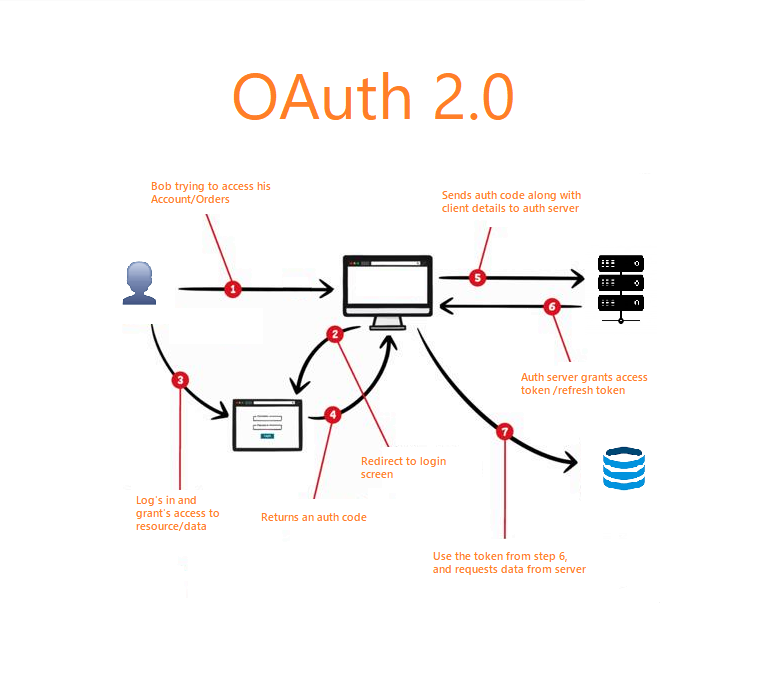
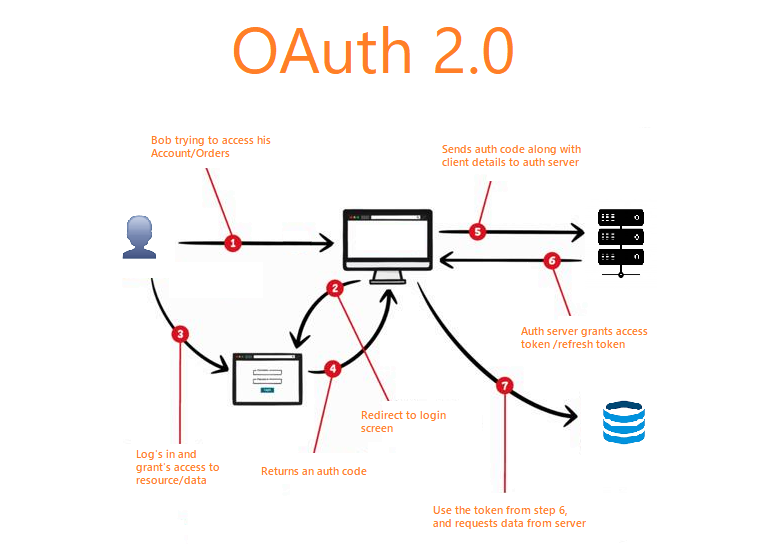
feat: 오픈미션_3 작성

diff --git a/_posts/2025-11-24-우테코-프리코스-오픈미션-3.md b/_posts/2025-11-24-우테코-프리코스-오픈미션-3.md
@@ -1,0 +1,185 @@
+---
+title: "우아한테크코스 프리코스 오픈미션 - 기능개선"
+date: 2025-11-24 02:00:00 +09:00
+categories: [WTC, Precourse]
+tags: [boot camp, back end, open mission]
+image:
+  path: /assets/img/WTC/open/open_mission_3/로컬 스토리지.png
+---
+
+> 로그인 로직을 **로컬 스토리지**에 책임을 몰아넣은 결과.. 많은 일이 있었다.
+
+## #⃣ **서론**
+**2025.11.17 챗봇 배포 후** 일주일간은 **로그 데이터를 분석**하며 사용자의 **질문 패턴**과 **응답 품질**을 개선하는 데 집중했다. 그리고 이 모니터링 과정에서 예상치 못한 **보안 위협**을 목격하게 되었다. 
+
+**바로 우리 학교 IT계열 학생들의 남다른 호기심이었다.**
+<figure align="center">
+  <img src="/assets/img/WTC/open/open_mission_3/인젝션 시도.png" alt="프롬프트 인젝션 공격 로그">
+  <figcaption>▲ 실제 로그에 찍힌 프롬프트 인젝션 시도 화면</figcaption>
+</figure>
+
+챗봇의 허점을 뚫으려는 **프롬프트 인젝션** 공격뿐만 아니라, 오픈된 깃허브 소스 코드를 역추적하여 **비공개 관리자 페이지 URL**을 알아내고 **무단 접속을 시도**하기까지 했다. 실제 서비스였다면 아찔했을 순간들이었다.
+
+이후 학교에서 실제로 어떤 시도를 했는지 동기의 입으로 듣는 순간, 나는 생각 이상으로 **보안 강화는 필수라는 생각을 하게 되었다.**
+
+그래서 이번 블로그 포스팅은 **보안 로직**과 **개선할 점**에 대해 적어 나갈예정이다.
+
+## #⃣ **로그인 로직 & 보안강화 계획**
+![구글로그인](/assets/img/WTC/open/open_mission_3/OAuth 2.0.png)
+
+**관리자 페이지**는 Google OAuth 2.0을 통해 사용자를 1차 인증하고, 백엔드에서 **허용된 이메일(Whitelist)**인지 검증한 후 자체 **JWT(Access Token)**를 발급하여 세션을 유지하는 방식으로 로직을 짰다.
+
+즉. 전체적인 인증 흐름은 크게 **프론트엔드 요청** → **백엔드 검증 및 토큰 발급** → **API 요청 인터셉터**의 **3단계**로 나뉜다.
+
+### 1. **프론트엔드: Google 로그인 트리거**
+로그인 페이지에서는 `@react-oauth/google` 라이브러리를 사용하여 Google 로그인을 구현했다. 사용자가 구글 로그인을 완료하면 `id_token`을 받아 백엔드로 전송한다.
+
+- **토큰 전송**: 구글 인증 성공 시 반환되는 `credentialResponse.credential`(Google ID Token)을 `/auth/google/login` 엔드포인트로 전송한다.
+
+- **토큰 저장**: 백엔드로부터 응답받은 자체 `access_token`을 `localStorage`에 저장하고, `apiClient`의 기본 헤더에 설정하여 이후 요청 시 자동으로 인증 정보가 포함되도록 한다.
+
+```js
+// Login 핵심 로직
+const handleGoogleSuccess = async (credentialResponse) => {
+  const id_token = credentialResponse.credential; // Google ID Token
+  
+  // 백엔드 검증 요청
+  const response = await apiClient.post('/auth/google/login', {
+    id_token: id_token
+  });
+
+  // 서비스 전용 토큰 저장
+  const { access_token } = response.data;
+  localStorage.setItem('admin_token', access_token);
+  apiClient.defaults.headers.common['Authorization'] = `Bearer ${access_token}`;
+  navigate('/', { replace: true });
+};
+```
+### 2. **백엔드: 토큰 검증 및 권한 확인**
+백엔드(FastAPI)는 프론트엔드에서 받은 **Google ID Token**을 검증하고, **해당 사용자가 관리자 권한이 있는지 확인**한다.
+
+- **Google 토큰 검증**: `google.oauth2.id_token.verify_oauth2_token`을 사용하여 토큰의 유효성을 검사하고 이메일 정보를 추출한다.
+
+- **관리자 권한 확인 (Whitelist)**: 추출된 이메일이 환경 설정(`settings.ALLOWED_ADMIN_EMAIL`)에 등록된 관리자 이메일과 일치하는지 확인하고, 일치하지 않을 경우 `403 Forbidden` 에러를 반환하여 접근을 차단한다.
+
+- **자체 JWT 발급**: 검증이 완료되면 create_access_token 함수를 통해 서비스 전용 JWT를 생성하여 클라이언트에 반환한다.
+```python
+# auth 핵심 로직
+@router.post("/auth/google/login")
+async def google_login(token_data: GoogleToken):
+    # 1. 구글 토큰 검증
+    idinfo = id_token.verify_oauth2_token(token_data.id_token, ...)
+    email = idinfo.get('email')
+
+    # 2. 허용된 관리자 이메일인지 확인
+    if email != settings.ALLOWED_ADMIN_EMAIL:
+        raise HTTPException(status_code=403, detail="Access denied")
+            
+    # 3. 자체 액세스 토큰 발급
+    app_access_token = create_access_token(email=email)
+    return {"access_token": app_access_token, ...}
+```
+### 3. **API 클라이언트: Axios Interceptor 활용**
+로그인 이후의 모든 **API 요청에 대해 인증 상태를 유지**하고, 토큰 만료 시 **자동으로 로그아웃 처리**를 수행하기 위해 Axios Interceptor를 설정했다.
+
+```js
+// apiClient 핵심 로직
+apiClient.interceptors.request.use((config) => {
+  const token = localStorage.getItem('admin_token');
+  if (token) {
+    config.headers['Authorization'] = `Bearer ${token}`;
+  }
+  return config;
+});
+
+apiClient.interceptors.response.use(
+  (response) => response,
+  (error) => {
+    if (error.response && error.response.status === 401) {
+      localStorage.removeItem('admin_token');
+      window.location.href = '/admin/login'; // 강제 로그아웃
+    }
+    return Promise.reject(error);
+  }
+);
+```
+
+즉, **서버 측 Whitelist를 검증**하여 **인가된 관리자만 접근**할 수 있도록 로직을 구현하였다.  
+그러나, 로직을 짜고 보니 **localStorage로 토큰을 관리하는 방식에 불안감**이 생기기 시작했다.  
+
+> **위험 사항**  
+> **1.** XSS(Cross-Site Scripting) 공격에 취약함  
+> **2.** HttpOnly 및 Secure 속성 사용 불가  
+> **3.** 브라우저에 저장됨
+{: .prompt-warning }
+
+만약 관리자 페이지에서도** XSS 취약점이 발견된다면?** `localStorage`에 있는 토큰은 **해커에게 문을 열어주는 프리패스권**이 될 것이다.  
+
+### 4. **개선할 점**
+
+계획한 보안강화 로직으로는 **LocalStorage -> HttpOnly Cookie 방법**이다.
+
+> **계획**  
+> **1.** 백엔드의 로그인 응답(auth.py)에서 **Set-Cookie** 헤더를 사용해 토큰을 전달  
+> **2.** 프론트엔드는 별도의 저장 로직 없이 쿠키를 자동으로 전송하도록 **withCredentials: true** 옵션을 사용.  
+{: .prompt-tip }
+
+> 회고글을 모두 작성하고 적용해볼 예정이다.
+
+## #⃣ **마무리: FastAPI**
+
+마무리로는 **FastAPI를 사용해본 후기**를 말해보려한다.  
+
+결론부터 말하자면, 우려했던 **FastAPI와 Python 사용 자체에는 큰 어려움이 없었다.** 물론 익숙치 않은 문법 탓에 오타를 내거나 자잘한 시행착오도 많았지만 기억에 남는 큰 오류는 없었다.
+
+오히려 `Spring Boot`와 비교했을 때, `FastAPI`는 거추장스러운 설정 없이 직관적으로 코드를 짤 수 있어 **가볍고 빠르다**는 장점을 확실히 체감할 수 있었다. 심지어 짧은 개발 기간안에 적용할만한 **장점**또한 보였다.
+
+**간단한 GET 요청 + 쿼리 파라미터 받기**  
+
+**Spring Boot (Java)**
+```java
+@RestController
+public class HelloController {
+    @GetMapping("/hello")
+    public HelloResponse hello(@RequestParam String name) {
+        return new HelloResponse("Hello, " + name);
+    }
+}
+// DTO 클래스 별도 필요
+@Getter @AllArgsConstructor
+class HelloResponse { private String message; }
+```  
+
+**FastAPI (Python)**
+```python
+from fastapi import FastAPI
+
+app = FastAPI()
+
+# 직관적이고 짧음
+@app.get("/hello")
+async def hello(name: str):
+    return {"message": f"Hello, {name}"} 
+    # DTO 없이 dict만 리턴해도 자동 JSON 변환
+```
+
+### **새로운 시도와 몰입은 코드 밖에 있었다**
+
+사실, **FastAPI를 사용하면서 문법적인 난관에 부딪힌 적은 거의 없다.** 요즘 개발 트렌드인 AI 툴의 도움을 적극적으로 받았고, 덕분에 소위 말하는 **'바이브 코딩(Vibe Coding)'**을 통해 물 흐르듯 기능을 구현할 수 있었기 때문이다.
+
+하지만 아이러니하게도, 언어의 장벽이 낮아지니 **'환경의 장벽'**이 보이기 시작했다.
+앞선 문제 해결 파트에서 언급했듯, 나의 발목을 잡은 건 Python 문법이 아니라 **DB 연결, 비동기 처리의 이해, 배포 환경의 변수 설정** 등이었다. Spring이라는 거대한 프레임워크가 알아서 해주던 것들을 내 손으로 직접 조립해야 했기 때문이다.
+
+처음에는 *"단순히 언어만 바꾼 것이 과연 미션에서 요구한 '새로운 시도'일까?"* 라는 아쉬움도 있었다. 거창한 아키텍처나 신기술을 도입한 것은 아니었기 때문이다.
+
+하지만 돌이켜보면, 익숙한 Spring의 울타리를 벗어나 **낯선 도구를 들고 맨땅에서 발생한 오류들과 직면했던 그 시간들**. 비록 의도했던 형태는 아니었을지라도, 그 과정 하나하나가 나에게는 무엇보다 **값진 '새로운 시도'**였다고 확신한다.
+
+### **진짜 마무리**
+
+**우아한테크코스 프리코스의 막이 이렇게 내렸다.** 오픈 미션 설명회 당시 **'몰입'**이라는 키워드를 설명하며, **'바리스타 자격증 취득도 몰입의 일환'**이라는 예시를 들었던 것이 기억난다. 솔직히 말하자면, 당시엔 조금 황당했다. 개발자를 양성하는 곳에서 개발과 무관해 보이는 예시라니. 결국 개발자는 코드로 문제를 해결할 때 비로소 의미가 있는 것이라 생각했기 때문이다. 
+
+그러나, 현재 나 또한 학교 **챗봇의 개발을 우테코 오픈미션과 엮어서 제출을 한다는게**, 사실 **바리스타 자격증을 따는 것과 다를게 없지 않을까 하는 불안감**과, 그럼에도 2주간 실제 서비스 배포를 위해 빠른기간 낯선 도구를 활용하여 백엔드 개발을 해본 **이 경험이 실제로 몰입**이 되었다. 오픈미션 뿐만 아니라 **실제 인생에서의 몰입** 말이다.
+
+오픈미션을 진행하며 깨닳은 점이라면 '무엇을 하느냐'보다 **'어떻게 빠져드느냐'**였다. 실제로 문제해결에 관한 내용을 평소보다 자세하게 적었으며 적는 재미도 있었다. 이러한 경험이 생기며 이번 오픈 미션은 나에게 단순한 개발 경험을 넘어, **몰입**이란 단어에 다시한번 생각해보게 하는 기간이었다.
+
+> 오픈미션을 진행하는 우테코 여러분, 그리고 코치, 관리자 여러분 모두 고생하셨습니다.
